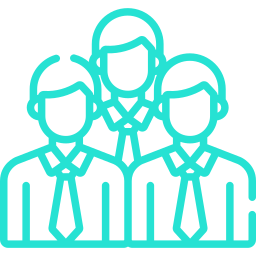
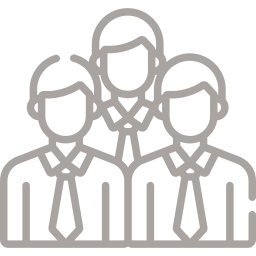
cambio de la paleta de colores

diff --git a/css/estilo.css b/css/estilo.css
@@ -8,6 +8,14 @@ azul letras: #4580CD
 celeste boton: #0099FF
 azul boton: ##004D80*/
 
+/* PALETA DE COLORES REFERIDA POR EL CLIENTE 
+
+  celeste:#0099FF
+  gris oscuro: #534f50
+  gris claro:#a9a4a0
+
+*/
+
 
 /*@font-face {
   font-family: montserrat;
@@ -24,7 +32,7 @@ azul boton: ##004D80*/
 }
 .btn-op1:hover{
   border: none;
-  background: #26e2d3;
+  background: #a9a4a0;
   color: white;
   cursor: pointer;
 }
@@ -47,7 +55,7 @@ azul boton: ##004D80*/
   color: #0099FF;
 }
 .cl3{
-  color: #26e2d3;
+  color: #a9a4a0;
 }
 .msr{
   font-family: 'Montserrat', sans-serif;
@@ -82,13 +90,13 @@ text-align:left;
 input[type=text] {
     border: none;
     border-radius: 0px;
-    border-bottom: 1px solid #26e2d3;
+    border-bottom: 1px solid #a9a4a0;
     width:100%;
     padding-left:30px;
   }
 input[type=password] {
     border: none;
-    border-bottom: 1px solid #26e2d3;
+    border-bottom: 1px solid #a9a4a0;
     border-radius: 0px;
     width:100%;
     padding-left:30px;
@@ -104,7 +112,7 @@ input[type=password] {
   }
   .submitt:hover{
     border: none;
-    background: #26e2d3;
+    background: #a9a4a0;
     color: white;
   }
 
@@ -202,6 +210,9 @@ a:active {
   background: #0099ff;
   color: white;
 }
+.navbar-collapse .navbar-nav .nav-item .dropdown-menu .dropdown-item:hover i{
+  color: white;
+}
 
 
 /* AVISO DE RESTRICCION */
@@ -212,7 +223,7 @@ a:active {
   box-shadow: 0px 0px 20px 0px rgba(0,0,0,0.75);
 }
 .cont-aviso-login i{
-  color: #26e2d3;
+  color: #534f50;
 }
 .cont-aviso-login h4,.cont-aviso-login h5{
   color: #0099ff;
@@ -227,7 +238,7 @@ a:active {
 }
 .cont-aviso-login button:hover{
   border: none;
-  background: #26e2d3;
+  background: #534f50;
   color: white;
 }
 

diff --git a/views/rrhh/inicio-rrhh.php b/views/rrhh/inicio-rrhh.php
@@ -40,8 +40,8 @@ if($rol!=7){
         <i class="fas fa-users fa-lg"></i> Personal
         </a>
         <div class="dropdown-menu dropdown-menu-right" aria-labelledby="navbarDropdown">
-          <a class="dropdown-item" href="nuevo-usuario.php"><i class="fas fa-plus fa-lg cl3"></i> Nuevo personal</a>
-          <a class="dropdown-item" href="lista-personal.php"><i class="fas fa-list fa-lg cl3"></i> Lista de personal</a>
+          <a class="dropdown-item" href="nuevo-usuario.php"><i class="fas fa-plus fa-lg cl1"></i> Nuevo personal</a>
+          <a class="dropdown-item" href="lista-personal.php"><i class="fas fa-list fa-lg cl1"></i> Lista de personal</a>
         </div>
       </li>
       <li class="nav-item dropdown">
@@ -51,9 +51,9 @@ if($rol!=7){
         <div class="dropdown-menu dropdown-menu-right" aria-labelledby="navbarDropdown">
           <p class="dropdown-item mb-0"><b>ROL:&nbsp</b><?php echo strtoupper($_SESSION['nombreRol']); ?></p>
           <div class="dropdown-divider"></div>
-          <a class="dropdown-item" href="../ver-perfil.php"><i class="fas fa-id-card-alt fa-lg cl3"></i> Mis Datos</a>
-          <a class="dropdown-item" href="../cambiar-pass.php"><i class="fas fa-unlock-alt fa-lg cl3"></i> Seguridad</a>
-          <a class="dropdown-item" href="../cerrar-sesion.php"><i class="fas fa-arrow-right fa-lg cl3"></i> Cerrar Sesión</a>
+          <a class="dropdown-item" href="../ver-perfil.php"><i class="fas fa-id-card-alt fa-lg cl1"></i> Mis Datos</a>
+          <a class="dropdown-item" href="../cambiar-pass.php"><i class="fas fa-unlock-alt fa-lg cl1"></i> Seguridad</a>
+          <a class="dropdown-item" href="../cerrar-sesion.php"><i class="fas fa-arrow-right fa-lg cl1"></i> Cerrar Sesión</a>
         </div>
       </li>
       
@@ -101,7 +101,7 @@ if($rol!=7){
             </div>
             <div class="col-lg-3">
               <img class="img-fluid d-block m-auto" src="../../img/agregar.png" width="60" height="60" alt="">
-              <h4 class="text-center mt-4 msr">Tu agregastes</h4>
+              <h4 class="text-center mt-4 msr">Tú agregastes</h4>
               <h2 class="text-center msr"><?php echo $agregadosRrhh;  ?></h2>
             </div>
             </div>

diff --git a/views/rrhh/lista-personal.php b/views/rrhh/lista-personal.php
@@ -32,8 +32,8 @@ session_start();
         <i class="fas fa-users fa-lg"></i> Personal
         </a>
         <div class="dropdown-menu dropdown-menu-right" aria-labelledby="navbarDropdown">
-          <a class="dropdown-item" href="nuevo-usuario.php"><i class="fas fa-plus fa-lg cl3"></i> Nuevo personal</a>
-          <a class="dropdown-item" href="lista-personal.php"><i class="fas fa-list fa-lg cl3"></i> Lista de personal</a>
+          <a class="dropdown-item" href="nuevo-usuario.php"><i class="fas fa-plus fa-lg cl1"></i> Nuevo personal</a>
+          <a class="dropdown-item" href="lista-personal.php"><i class="fas fa-list fa-lg cl1"></i> Lista de personal</a>
         </div>
       </li>
       <li class="nav-item dropdown">
@@ -43,9 +43,9 @@ session_start();
         <div class="dropdown-menu dropdown-menu-right" aria-labelledby="navbarDropdown">
           <p class="dropdown-item mb-0"><b>ROL:&nbsp</b><?php echo strtoupper($_SESSION['nombreRol']); ?></p>
           <div class="dropdown-divider"></div>
-          <a class="dropdown-item" href="../ver-perfil.php"><i class="fas fa-id-card-alt fa-lg cl3"></i> Mis Datos</a>
-          <a class="dropdown-item" href="../cambiar-pass.php"><i class="fas fa-unlock-alt fa-lg cl3"></i> Seguridad</a>
-          <a class="dropdown-item" href="../cerrar-sesion.php"><i class="fas fa-arrow-right fa-lg cl3"></i> Cerrar Sesión</a>
+          <a class="dropdown-item" href="../ver-perfil.php"><i class="fas fa-id-card-alt fa-lg cl1"></i> Mis Datos</a>
+          <a class="dropdown-item" href="../cambiar-pass.php"><i class="fas fa-unlock-alt fa-lg cl1"></i> Seguridad</a>
+          <a class="dropdown-item" href="../cerrar-sesion.php"><i class="fas fa-arrow-right fa-lg cl1"></i> Cerrar Sesión</a>
         </div>
       </li>
       

diff --git a/views/rrhh/nuevo-usuario.php b/views/rrhh/nuevo-usuario.php
@@ -36,8 +36,8 @@ if($rol!=7){
         <i class="fas fa-users fa-lg"></i> Personal
         </a>
         <div class="dropdown-menu dropdown-menu-right" aria-labelledby="navbarDropdown">
-          <a class="dropdown-item" href="nuevo-usuario.php"><i class="fas fa-plus fa-lg cl3"></i> Nuevo personal</a>
-          <a class="dropdown-item" href="lista-personal.php"><i class="fas fa-list fa-lg cl3"></i> Lista de personal</a>
+          <a class="dropdown-item" href="nuevo-usuario.php"><i class="fas fa-plus fa-lg cl1"></i> Nuevo personal</a>
+          <a class="dropdown-item" href="lista-personal.php"><i class="fas fa-list fa-lg cl1"></i> Lista de personal</a>
         </div>
       </li>
       <li class="nav-item dropdown">
@@ -47,9 +47,9 @@ if($rol!=7){
         <div class="dropdown-menu dropdown-menu-right" aria-labelledby="navbarDropdown">
           <p class="dropdown-item mb-0"><b>ROL:&nbsp</b><?php echo strtoupper($_SESSION['nombreRol']); ?></p>
           <div class="dropdown-divider"></div>
-          <a class="dropdown-item" href="../ver-perfil.php"><i class="fas fa-id-card-alt fa-lg cl3"></i> Mis Datos</a>
-          <a class="dropdown-item" href="../cambiar-pass.php"><i class="fas fa-unlock-alt fa-lg cl3"></i> Seguridad</a>
-          <a class="dropdown-item" href="../cerrar-sesion.php"><i class="fas fa-arrow-right fa-lg cl3"></i> Cerrar Sesión</a>
+          <a class="dropdown-item" href="../ver-perfil.php"><i class="fas fa-id-card-alt fa-lg cl1"></i> Mis Datos</a>
+          <a class="dropdown-item" href="../cambiar-pass.php"><i class="fas fa-unlock-alt fa-lg cl1"></i> Seguridad</a>
+          <a class="dropdown-item" href="../cerrar-sesion.php"><i class="fas fa-arrow-right fa-lg cl1"></i> Cerrar Sesión</a>
         </div>
       </li>
       

diff --git a/index.php b/index.php
@@ -17,16 +17,16 @@
           <div style="text-align:center;">
              <img src="img/logof.png" class="logo img-fluid">
           </div>
-          <hr style="border-top: 1px solid #26e2d3; width:95%; border-radius:5px;">
+          <hr style="border-top: 1px solid #a9a4a0; width:95%; border-radius:5px;">
           <form class="col-sm-12" method="post" onsubmit="login();">
-            <span style="color:#0081ff; font-size:20px;">INICIAR SESIÓN</span>
+            <span style="color:#0099ff; font-size:20px;">INICIAR SESIÓN</span>
               <div class="row justify-content-sm-center" style="margin-top:10px;">
                 <div class="form-group col-sm-10 col-sm-offset-1">
-                  <label><span style="color:#0081ff; font-size:14px;">Usuario</span></label><br>
+                  <label><span style="color:#0099ff; font-size:14px;">Usuario</span></label><br>
                   <input class="form-control" type="text" required="" id="usuario" style="font-size:16px;" placeholder="Ingresar usuario...">
                   <span class="fas fa-user iconouser"></span>
                   <br>
-                  <label style="margin-top:10px;"><span style="color:#0081ff; font-size:14px;">Contraseña</span></label><br>
+                  <label style="margin-top:10px;"><span style="color:#0099ff; font-size:14px;">Contraseña</span></label><br>
                   <input class="form-control" type="password" required="" id="pass" style="font-size:16px;" placeholder="Ingresar contraseña...">
                   <span class="fas fa-lock iconopass"></span>
                   <br>
